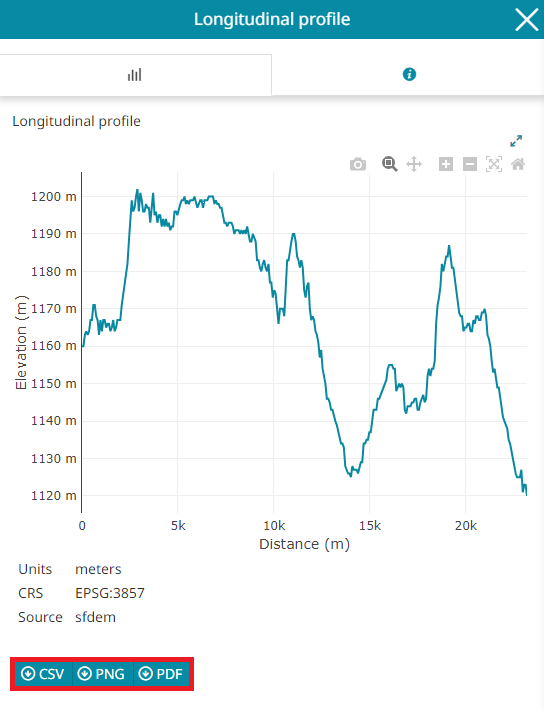
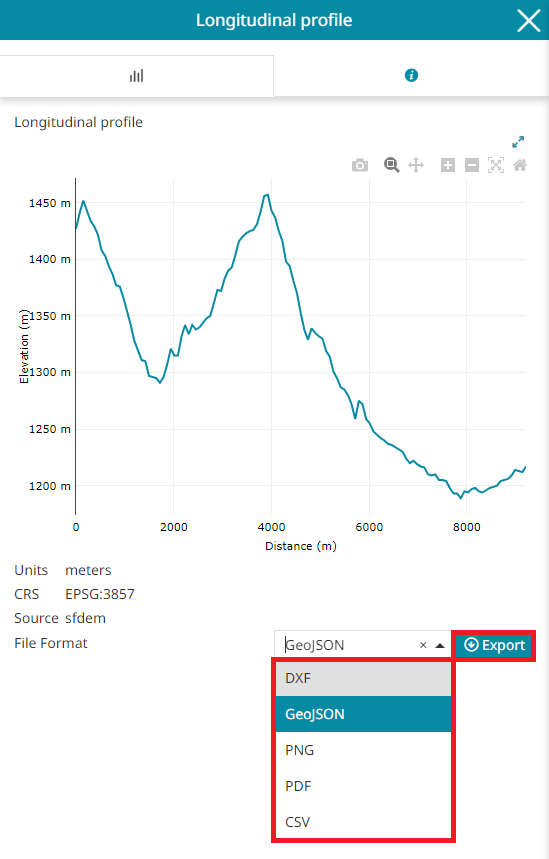
update_10573

diff --git a/docs/user-guide/longitudinal-profile.md b/docs/user-guide/longitudinal-profile.md
@@ -52,7 +52,7 @@ The **Chart toolbar**, displayed in the right corner of the chart, allows the us
 
 * **Reset axes** to return the chart to its initial state through the <img src="../img/button/reset_axes_chart.jpg" class="ms-docbutton"/> button.
 
-[MapStore](https://mapstore.geosolutionsgroup.com/mapstore/#/) also allows to export the *Longitudinal Profile* as `CSV`, `PNG` or `PDF` file.
+[MapStore](https://mapstore.geosolutionsgroup.com/mapstore/#/) also allows to **Export** the *Longitudinal Profile* as`DXT`,`CSV`,`GeoJSON`,`PNG`,`PDF` or `CSV` file.
 
 <img src="../img/longitudinal-profile/export-profile.jpg" class="ms-docimage"/>
 
